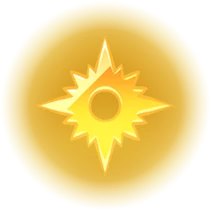
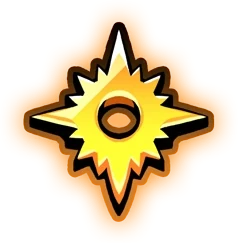
feat(art): draw each game's gods from its own symbols

diff --git a/packages/catalog/src/assets.test.ts b/packages/catalog/src/assets.test.ts
@@ -50,37 +50,30 @@ describe("iconFor", () => {
 });
 
 describe("godIconFor", () => {
-  it("draws every god Hades I has from Hades I's set, in either game", () => {
-    // The user's preference, and it survives the framing being fixed: one set
-    // for as many gods as it covers, which is 9 of the 14 reaching a Hades II
-    // tab. Sound for a god and a defect for a trait, where a shared key is never
-    // the same drawing.
+  it("draws each game's gods from that game's own set", () => {
+    // Hades I's set was preferred in both games for three rounds, to buy one
+    // authored style where Hades II had gaps. The user's own Hades II symbols
+    // cover all 16 of its gods, so the gap is gone and so is the exception.
     expect(godIconFor("hades1", "Zeus")).toBe("official/hades1/BoonSymbolZeus");
-    expect(godIconFor("hades2", "Zeus")).toBe("official/hades1/BoonSymbolZeus");
-    // Poseidon belongs in this list and is lent another god's plain symbol for
-    // as long as the comparison below runs.
-    for (const god of ["Artemis", "Athena", "Dionysus", "Demeter"]) {
-      expect(godIconFor("hades2", god)).toBe(`official/hades1/BoonSymbol${god}`);
-    }
-  });
-
-  it("keeps the Hades II file for a god Hades I never had", () => {
-    // The four Hades II Olympians with no Hades I counterpart. They match the
-    // rest now rather than needing a correction, the extractor having re-framed
-    // them on emit.
-    for (const god of ["Apollo", "Hephaestus", "Hera", "Hestia"]) {
+    expect(godIconFor("hades2", "Zeus")).toBe("official/hades2/BoonSymbolZeus");
+    for (const god of ["Apollo", "Hephaestus", "Hera", "Hestia", "Poseidon", "Hermes"]) {
       expect(godIconFor("hades2", god)).toBe(`official/hades2/BoonSymbol${god}`);
     }
   });
 
+  it("borrows the other game's file where this one names no symbol", () => {
+    // The fallback survives the preference flipping, and is the arm that keeps a
+    // god drawn rather than placeheld when one game's tables are short.
+    const borrowed = godIconFor("hades1", "Hades");
+    expect(borrowed === "official/hades2/BoonSymbolHades" || borrowed === "official/_missing").toBe(
+      true,
+    );
+  });
+
   it("lands on the shared placeholder for a god neither game draws", () => {
-    // Same absence as a trait with no icon, and the placeholder is deliberately
-    // not per-game: it is ours to draw, not either game's.
+    // The placeholder is deliberately not per-game: it is ours to draw, not
+    // either game's.
     expect(godIconFor("hades2", "NoSuchGod")).toBe("official/_missing");
-    // Hades himself has a page in Hades II and a symbol in neither set, and is
-    // the third god lent one for the comparison below. This line comes back
-    // with him when that ends.
-    expect(godIconFor("hades1", "Hades")).toBe("official/_missing");
   });
 });
 
@@ -97,21 +90,6 @@ describe("elementIconFor", () => {
     // The placeholder rather than a Hades II path, which would serve one game's
     // art on the other's page.
     expect(elementIconFor("hades1", "Fire")).toBe("official/_missing");
-  });
-});
-
-describe("the god-symbol comparison", () => {
-  it("lends three neighbours the plain cut of the art under judgement", () => {
-    // TEMPORARY, and deliberately loud: this whole block goes when the glowing
-    // and plain cuts have been judged against each other, and the two
-    // expectations it edited above come back with it.
-    expect(godIconFor("hades2", "Poseidon")).toBe("official/hades2/BoonSymbolHestia_plain");
-    expect(godIconFor("hades2", "Hermes")).toBe("official/hades2/BoonSymbolHera_plain");
-    expect(godIconFor("hades2", "Hades")).toBe("official/hades2/BoonSymbolHephaestus_plain");
-    // The three under judgement keep their own glowing cut.
-    for (const god of ["Hephaestus", "Hera", "Hestia"]) {
-      expect(godIconFor("hades2", god)).toBe(`official/hades2/BoonSymbol${god}`);
-    }
   });
 });
 

diff --git a/packages/catalog/src/assets.ts b/packages/catalog/src/assets.ts
@@ -60,39 +60,22 @@ export function iconFor(game: GameKey, traitId: TraitId): string {
  * they don't.
  */
 /**
- * **Hades I's set wherever Hades I has the god**, in either game, and this
- * game's own otherwise — 9 of the 14 gods reaching a Hades II tab come from
- * Hades I. Sound for a god where it would be a defect for a trait: a shared
- * trait key is never the same drawing, and a god's symbol is that god.
+ * **This game's own set first**, the other game's where this one names no symbol,
+ * and the shared placeholder where neither does.
  *
- * The two sets are framed alike now, the extractor re-framing Hades II's glow
- * cards on emit, so this is a preference rather than a correction — Apollo,
- * Hephaestus, Hera and Hestia have no Hades I counterpart and match anyway.
- * Hades has no symbol in either set and falls through to the placeholder.
+ * It preferred Hades I's set for both games for three rounds, on the argument
+ * that one authored style beats two. That ended when the user supplied Hades II
+ * symbols for all 16 of its gods, Hades and Selene included — there is no longer
+ * a gap to paper over, and a god's own game drawing its own god is the rule that
+ * needs no exceptions.
  */
-/**
- * TEMPORARY, and the whole of it is one commit to revert.
- *
- * Three gods whose symbol now comes from the user's own art, which ships in a
- * glowing and a plain cut. To judge the two side by side the plain cut is lent
- * to three neighbours on the bar, so a glance covers both without switching
- * anything. Delete this table and its use below once the choice is made.
- */
-const SYMBOL_COMPARISON: Readonly<Record<string, string>> = {
-  Poseidon: "BoonSymbolHestia_plain",
-  Hermes: "BoonSymbolHera_plain",
-  Hades: "BoonSymbolHephaestus_plain",
-};
-
 export function godIconFor(game: GameKey, god: GodId): string {
-  const borrowed = game === "hades2" ? SYMBOL_COMPARISON[god] : undefined;
-  if (borrowed !== undefined) return `${ART_SET}/hades2/${borrowed}`;
-
-  const preferred = godIconKey("hades1", god);
-  if (preferred !== null) return `${ART_SET}/hades1/${preferred}`;
-
   const own = godIconKey(game, god);
-  return own === null ? `${ART_SET}/_missing` : `${ART_SET}/${game}/${own}`;
+  if (own !== null) return `${ART_SET}/${game}/${own}`;
+
+  const other = game === "hades1" ? "hades2" : "hades1";
+  const borrowed = godIconKey(other, god);
+  return borrowed === null ? `${ART_SET}/_missing` : `${ART_SET}/${other}/${borrowed}`;
 }
 
 function godIconKey(game: GameKey, god: GodId): string | null {
